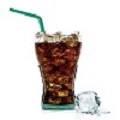
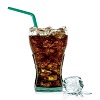
coffee machine ( 사진 수정, 창 제목 수정 )

diff --git a/src/Machine.java b/src/Machine.java
@@ -68,7 +68,7 @@ public class Machine extends JFrame implements MouseListener
 
     public Machine()
     {
-        super("COFFEE MACHINE");
+        super("VENDING MACHINE");
 
         init();
         start();
@@ -147,8 +147,8 @@ public class Machine extends JFrame implements MouseListener
 
 
 
-        j1.setPreferredSize(new Dimension(70, 70));
-        j5.setPreferredSize(new Dimension(380, 380));
+        j1.setPreferredSize(new Dimension(60, 60));
+        j5.setPreferredSize(new Dimension(390, 390));
         j7.setPreferredSize(new Dimension(150, 150));
 
 

diff --git a/README.md b/README.md
@@ -313,7 +313,7 @@ import javax.swing.JLabel;
 import javax.swing.JPanel;
 import java.awt.Color;
 ```
-
+ 
 ------------------------------
 
 ## 결과창
